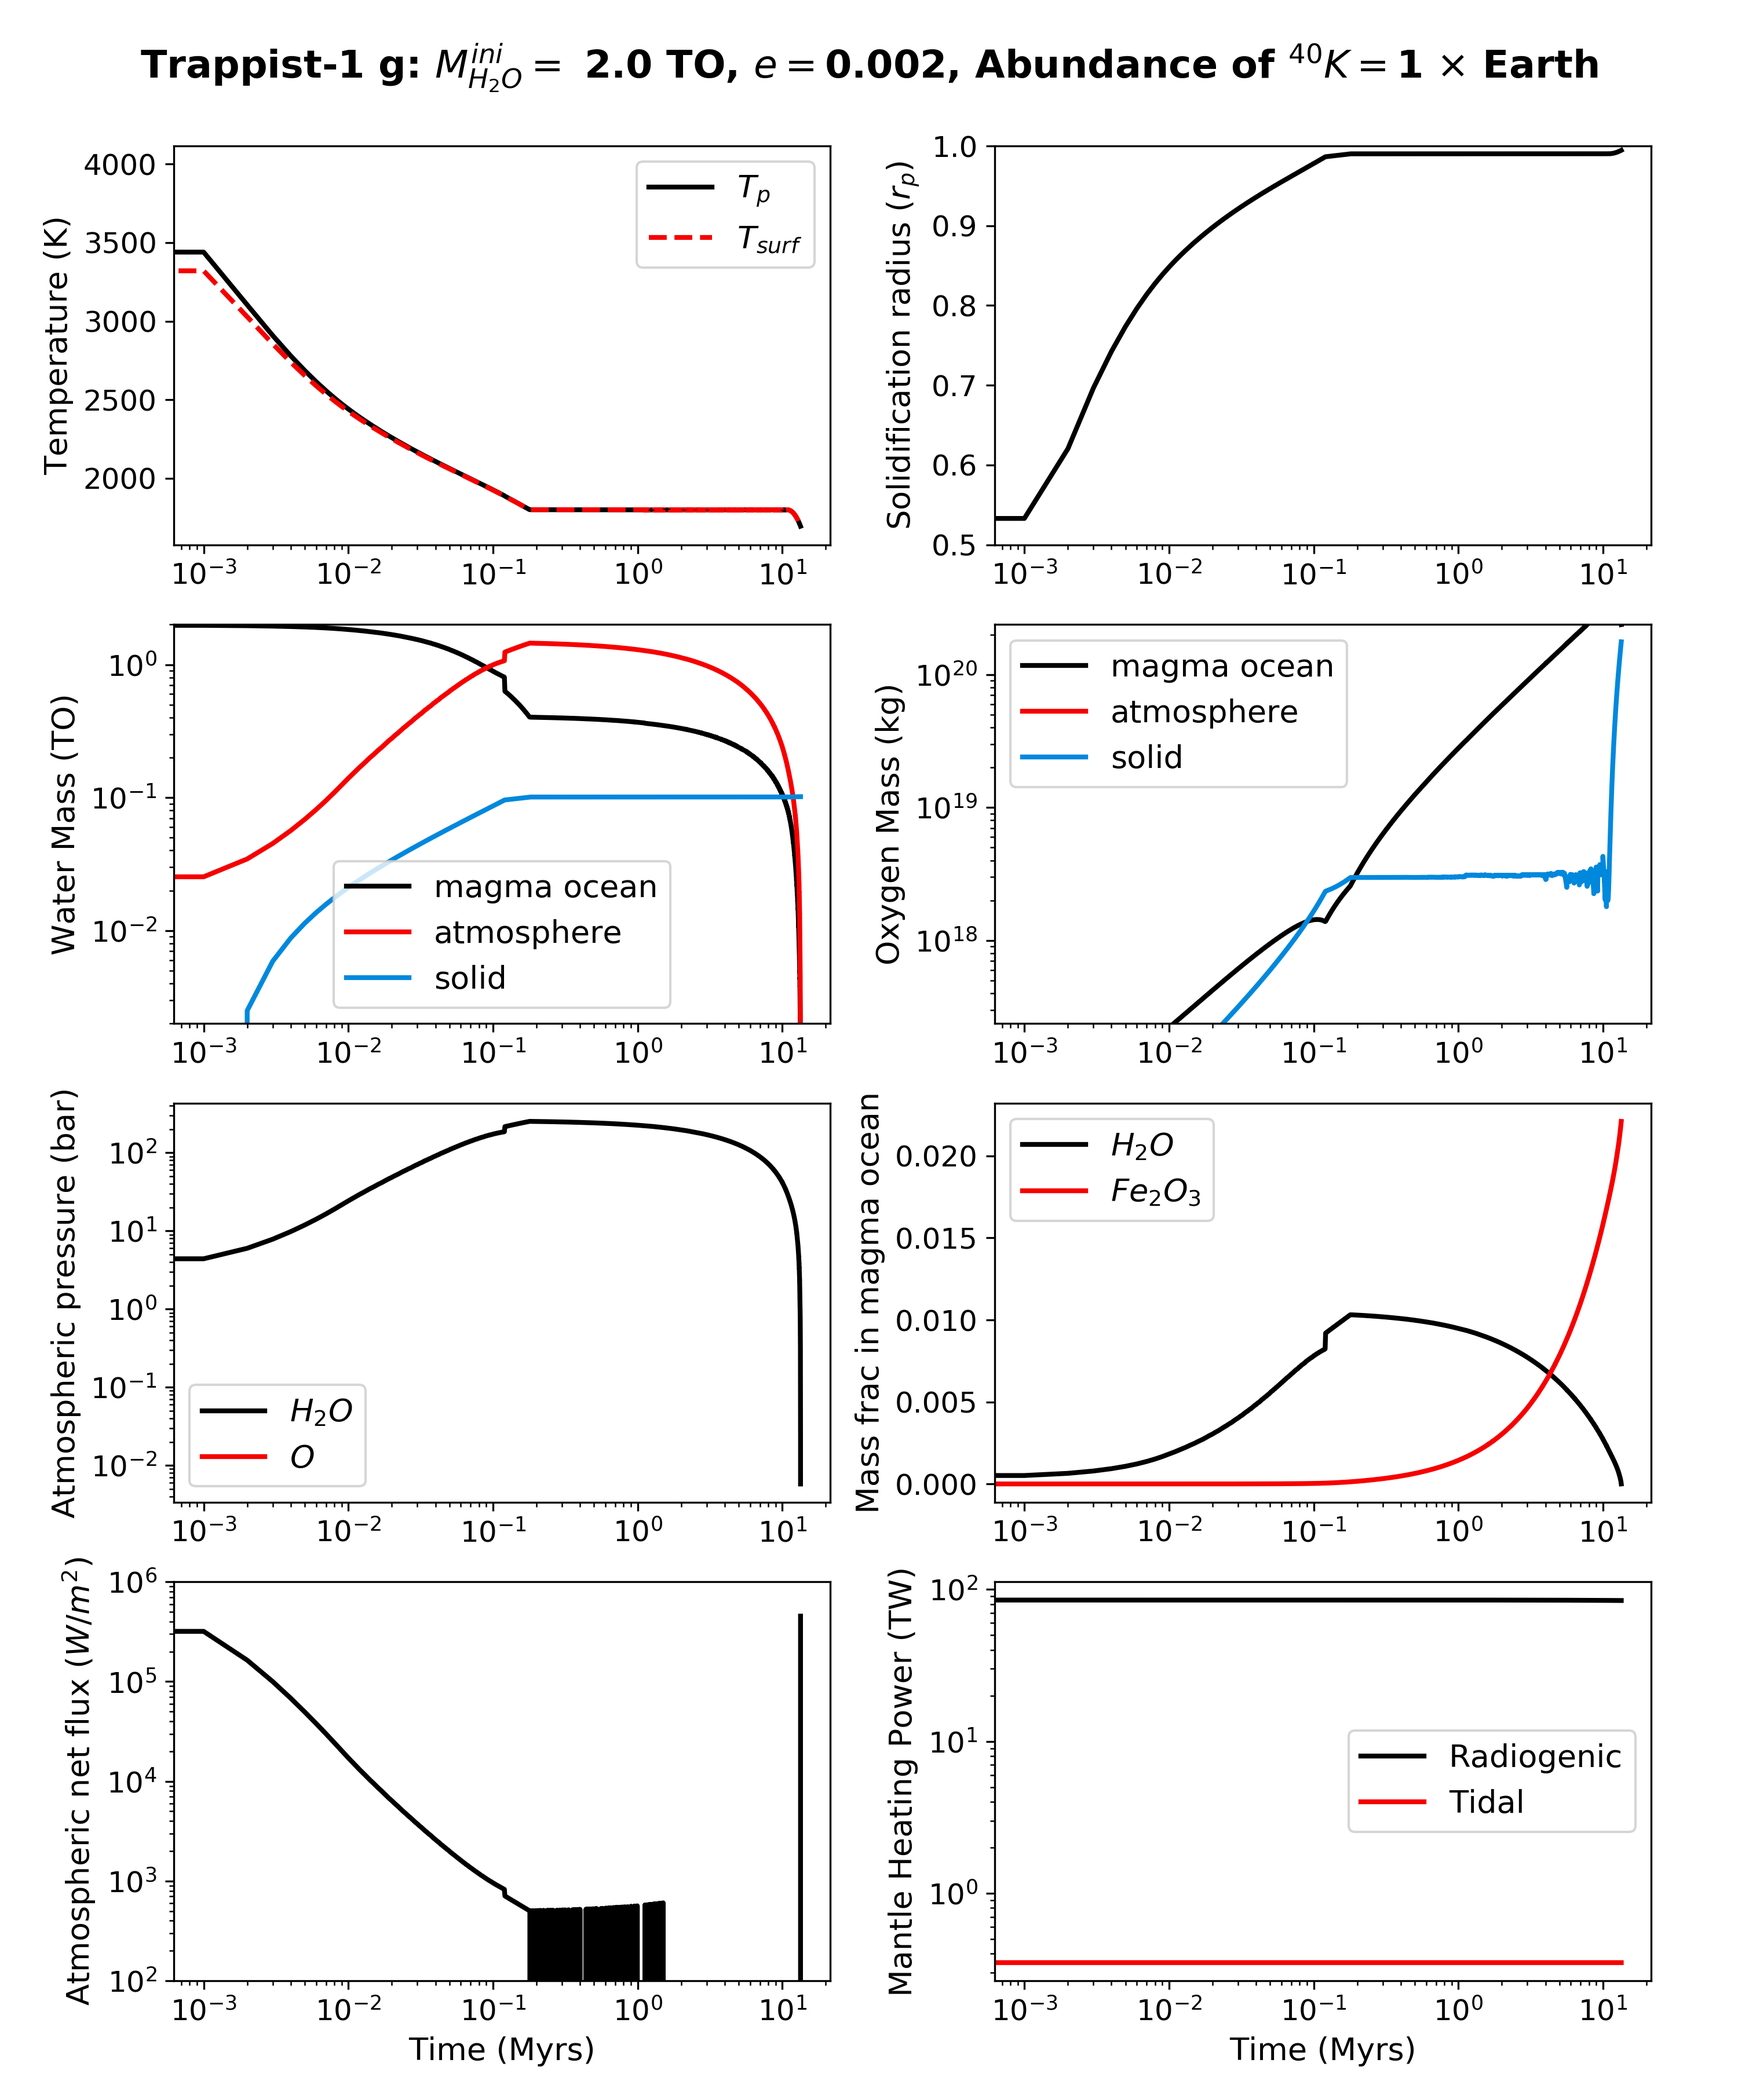
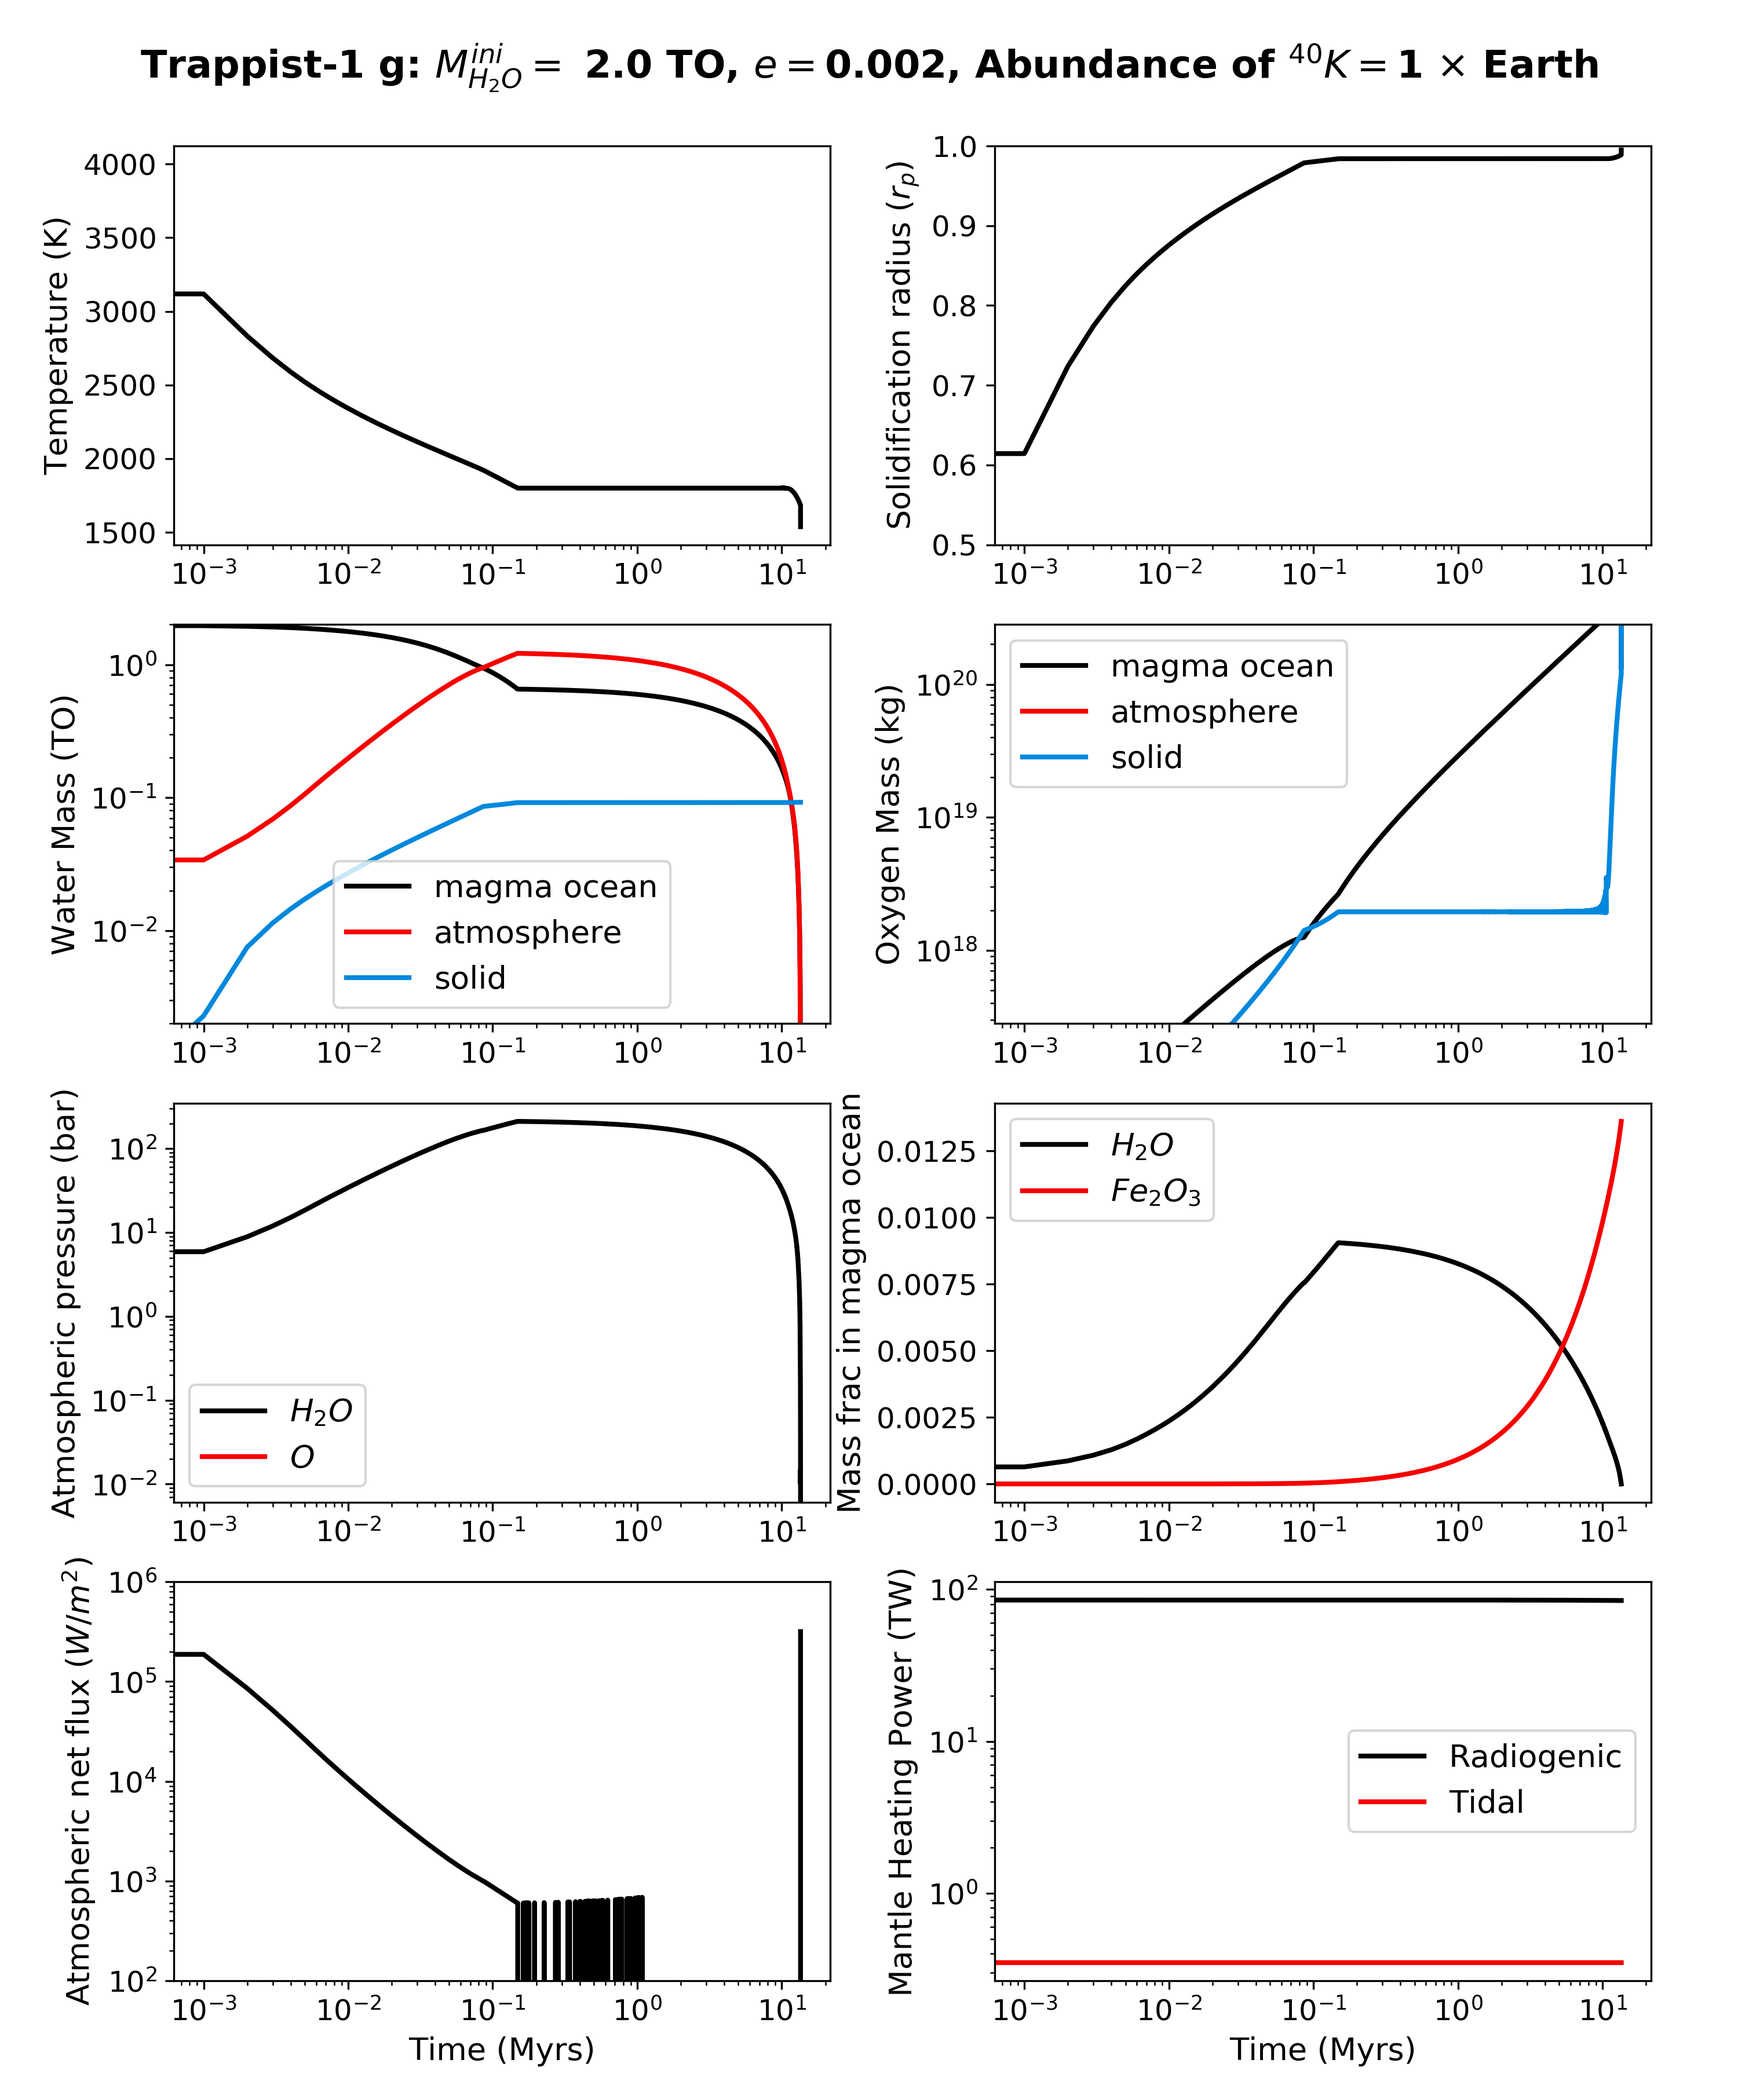
updated tests for magmoc

diff --git a/tests/MagmOc_GJ1132b/test_MagmOc_GJ1132b.py b/tests/MagmOc_GJ1132b/test_MagmOc_GJ1132b.py
@@ -16,17 +16,17 @@ def test_MagmOcGJ1132b():
     output = GetOutput(path=cwd)
 
     # Primary Variables: GJ1132b -- checks MagmOc parameters
-    assert np.isclose(output.log.final.GJ1132b.PotTemp, 3546.506520)
-    assert np.isclose(output.log.final.GJ1132b.SurfTemp, 3544.050059)
-    assert np.isclose(output.log.final.GJ1132b.SolidRadius, 0.671686)
-    assert np.isclose(output.log.final.GJ1132b.WaterMassMOAtm, 99.569302)
-    assert np.isclose(output.log.final.GJ1132b.WaterMassSol, 0.061907)
-    assert np.isclose(output.log.final.GJ1132b.OxygenMassMOAtm, 4.187362e+18)
-    assert np.isclose(output.log.final.GJ1132b.OxygenMassSol, 2.039860e+17)
-    assert np.isclose(output.log.final.GJ1132b.HydrogenMassSpace, 5.736134e+19)
-    assert np.isclose(output.log.final.GJ1132b.OxygenMassSpace, 4.508560e+20)
-    assert np.isclose(output.log.final.GJ1132b.CO2MassMOAtm, 1.749861e-296)
-    assert np.isclose(output.log.final.GJ1132b.CO2MassSol, 1.749861e-296)
+    assert np.isclose(output.log.final.GJ1132b.PotTemp, 3358.229436)
+    assert np.isclose(output.log.final.GJ1132b.SurfTemp, 4000.000000)
+    assert np.isclose(output.log.final.GJ1132b.SolidRadius, 0.750604)
+    assert np.isclose(output.log.final.GJ1132b.WaterMassMOAtm, 99.456333)
+    assert np.isclose(output.log.final.GJ1132b.WaterMassSol, 0.174876)
+    assert np.isclose(output.log.final.GJ1132b.OxygenMassMOAtm, 3.946430e+18)
+    assert np.isclose(output.log.final.GJ1132b.OxygenMassSol, 4.449172e+17)
+    assert np.isclose(output.log.final.GJ1132b.HydrogenMassSpace, 5.736131e+19)
+    assert np.isclose(output.log.final.GJ1132b.OxygenMassSpace, 4.508558e+20)
+    assert np.isclose(output.log.final.GJ1132b.CO2MassMOAtm, 1.748940e-296)
+    assert np.isclose(output.log.final.GJ1132b.CO2MassSol, 1.748940e-296)
 
 
 if __name__ == "__main__":

diff --git a/tests/MagmOc_Trappist1g/test_MagmOc_Trappist1g.py b/tests/MagmOc_Trappist1g/test_MagmOc_Trappist1g.py
@@ -16,17 +16,17 @@ def test_MagmOcTrappist1g():
     output = GetOutput(path=cwd)
 
     # Primary Variables: Trappist-1 g -- checks MagmOc parameters
-    assert np.isclose(output.log.final.g.PotTemp, 2441.144927)
-    assert np.isclose(output.log.final.g.SurfTemp, 2426.714881)
-    assert np.isclose(output.log.final.g.SolidRadius, 0.975285)
-    assert np.isclose(output.log.final.g.WaterMassMOAtm, 1.976368)
-    assert np.isclose(output.log.final.g.WaterMassSol, 0.021065)
-    assert np.isclose(output.log.final.g.OxygenMassMOAtm, 2.211655e+17)
-    assert np.isclose(output.log.final.g.OxygenMassSol, 8.785523e+16)
-    assert np.isclose(output.log.final.g.HydrogenMassSpace, 3.992771e+17)
+    assert np.isclose(output.log.final.g.PotTemp, 2341.655847)
+    assert np.isclose(output.log.final.g.SurfTemp, 4000.000000)
+    assert np.isclose(output.log.final.g.SolidRadius, 1.007038)
+    assert np.isclose(output.log.final.g.WaterMassMOAtm, 1.970302)
+    assert np.isclose(output.log.final.g.WaterMassSol, 0.027131)
+    assert np.isclose(output.log.final.g.OxygenMassMOAtm, 2.229490e+17)
+    assert np.isclose(output.log.final.g.OxygenMassSol, 8.607177e+16)
+    assert np.isclose(output.log.final.g.HydrogenMassSpace, 3.992772e+17)
     assert np.isclose(output.log.final.g.OxygenMassSpace, 2.859836e+18)
-    assert np.isclose(output.log.final.g.CO2MassMOAtm, 1.755087e-297)
-    assert np.isclose(output.log.final.g.CO2MassSol, 1.755087e-297)
+    assert np.isclose(output.log.final.g.CO2MassMOAtm, 1.755002e-297)
+    assert np.isclose(output.log.final.g.CO2MassSol, 1.755002e-297)
 
 
 if __name__ == "__main__":

diff --git a/tests/MagmOc_Earth/test_MagmOc_Earth.py b/tests/MagmOc_Earth/test_MagmOc_Earth.py
@@ -16,13 +16,13 @@ def test_MagmOcEarth():
     output = GetOutput(path=cwd)
 
     # Primary Variables: Earth -- checks MagmOc parameters
-    assert np.isclose(output.log.final.Earth.PotTemp, 2237.880741)
-    assert np.isclose(output.log.final.Earth.SurfTemp, 2236.094078)
-    assert np.isclose(output.log.final.Earth.SolidRadius, 0.904040)
-    assert np.isclose(output.log.final.Earth.WaterMassMOAtm, 4.907582)
-    assert np.isclose(output.log.final.Earth.WaterMassSol, 0.086785)
-    assert np.isclose(output.log.final.Earth.OxygenMassMOAtm, 1.833603e+18)
-    assert np.isclose(output.log.final.Earth.OxygenMassSol, 8.771056e+17)
+    assert np.isclose(output.log.final.Earth.PotTemp, 2173.620881)
+    assert np.isclose(output.log.final.Earth.SurfTemp, 4000.000000)
+    assert np.isclose(output.log.final.Earth.SolidRadius, 0.919480)
+    assert np.isclose(output.log.final.Earth.WaterMassMOAtm, 4.892812)
+    assert np.isclose(output.log.final.Earth.WaterMassSol, 0.101555)
+    assert np.isclose(output.log.final.Earth.OxygenMassMOAtm, 1.836760e+18)
+    assert np.isclose(output.log.final.Earth.OxygenMassSol, 8.739487e+17)
     assert np.isclose(output.log.final.Earth.HydrogenMassSpace, 8.761559e+17)
     assert np.isclose(output.log.final.Earth.OxygenMassSpace, 4.242889e+18)
     assert np.isclose(output.log.final.Earth.CO2MassMOAtm, 1.753694e-296)

diff --git a/examples/MagmOc_GJ1132b/plot_magmoc.py b/examples/MagmOc_GJ1132b/plot_magmoc.py
@@ -71,8 +71,8 @@ fig.suptitle('GJ1132b: Initial water content '+str(M_water_mo[0])+' TO + grey at
 
 ax1 = fig.add_subplot(421)
 ax1.plot(time*10**-6, Tpot,  label='$T_p$',      color=cmap(0))
-ax1.plot(time*10**-6, Tsurf, label='$T_{surf}$', color=cmap(220), linestyle='--')
-ax1.legend(loc='best', frameon=True)
+# ax1.plot(time*10**-6, Tsurf, label='$T_{surf}$', color=cmap(220), linestyle='--')
+# ax1.legend(loc='best', frameon=True)
 ax1.set_ylabel('Temperature (K)')
 ax1.set_xscale('log')
 ax1.set_xlim([1e-3,time[i_end]*1e-6])

diff --git a/examples/MagmOc_Trappist1g/plot_trappist.py b/examples/MagmOc_Trappist1g/plot_trappist.py
@@ -139,8 +139,8 @@ fig.suptitle(''+str(Name_Planet)+': $M^{ini}_{H_2O} = $ '+str(M_water_mo[0])+' T
 # --- Temperature --- #
 ax1 = fig.add_subplot(421)
 ax1.plot(time*10**-6, Tpot, label='$T_p$', color=cmap(0))
-ax1.plot(time*10**-6, Tsurf, label='$T_{surf}$', linestyle='--', color=cmap(220))
-ax1.legend(loc='best', frameon=True)
+# ax1.plot(time*10**-6, Tsurf, label='$T_{surf}$', linestyle='--', color=cmap(220))
+# ax1.legend(loc='best', frameon=True)
 ax1.set_ylabel('Temperature (K)')
 ax1.set_xscale('log')
 
